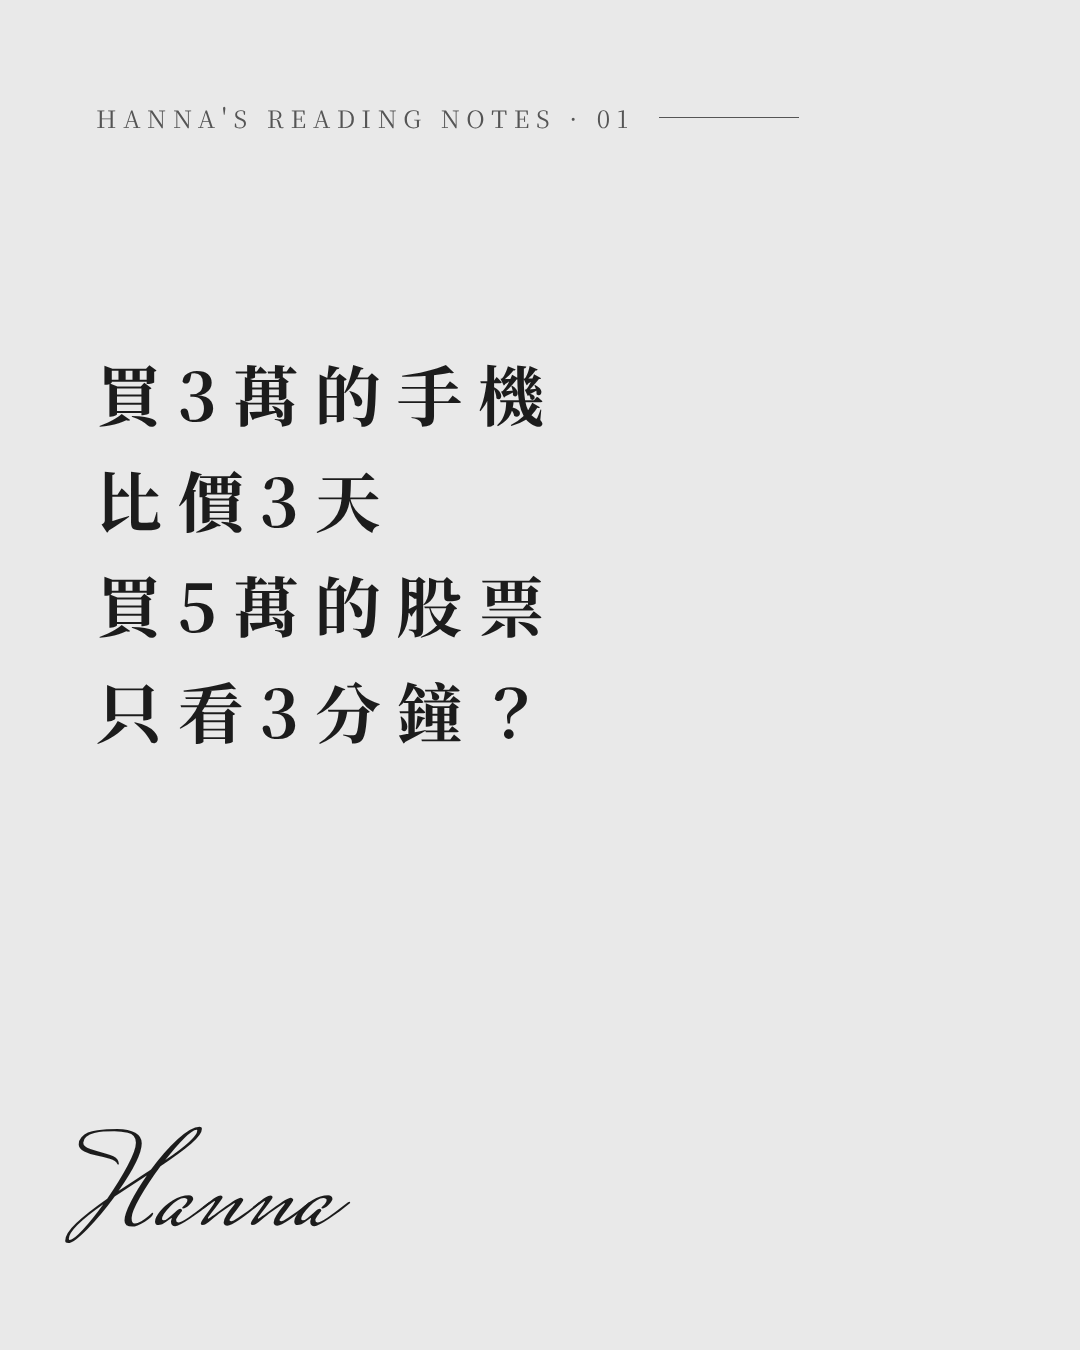
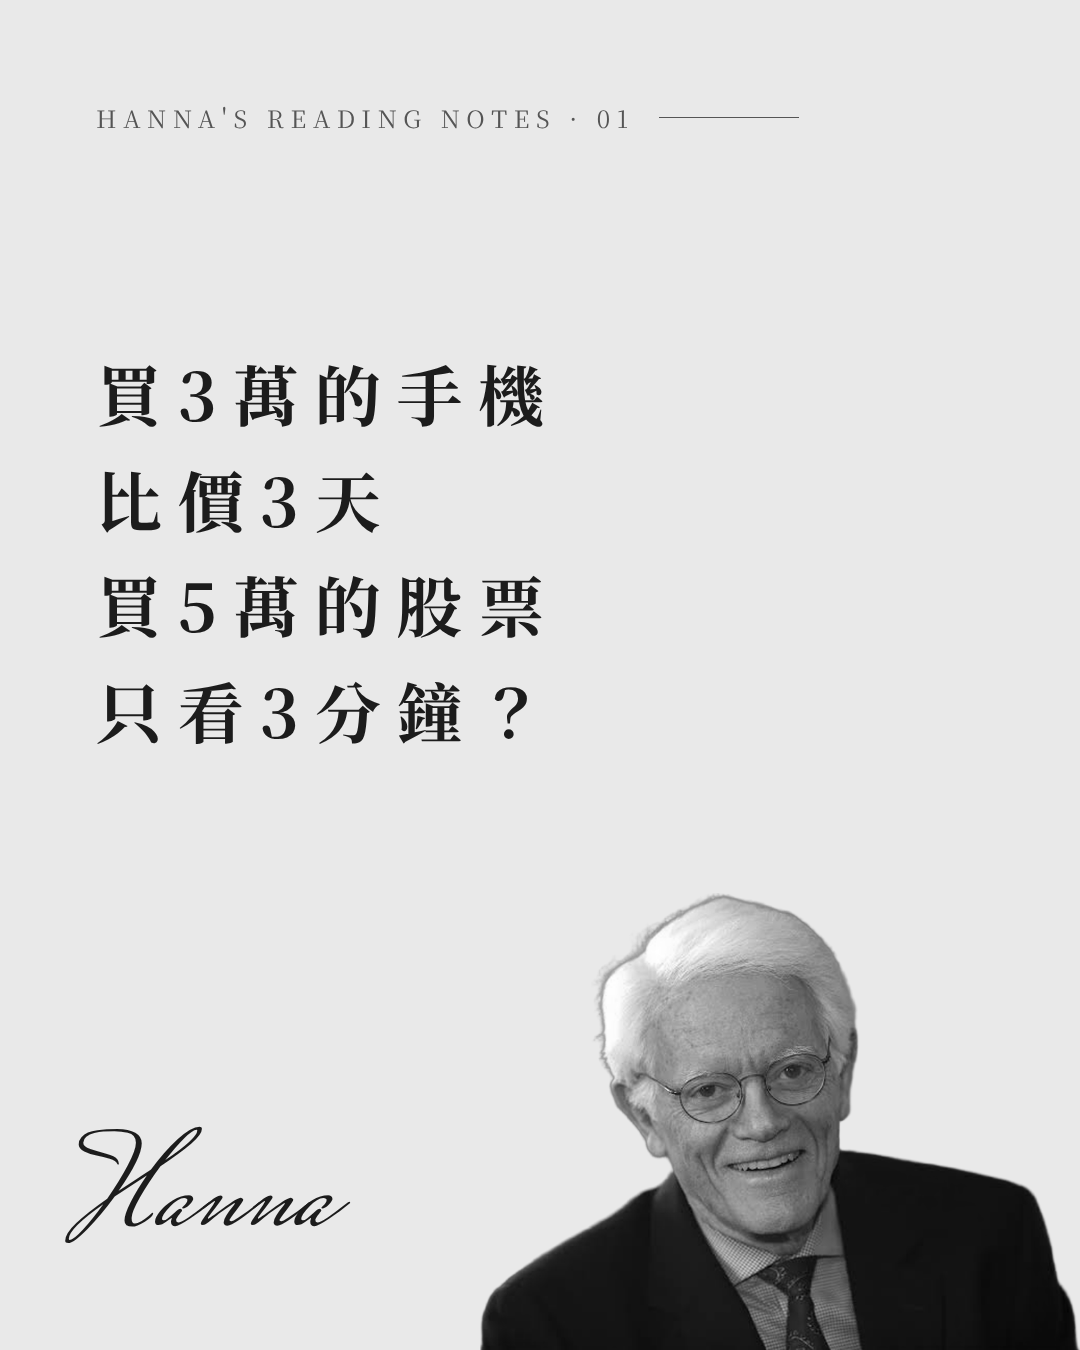
下單前3分鐘輪播：封面加入 Peter Lynch 去背照
Claude-Session: https://claude.ai/code/session_01AFjNkU8XspDCm6xvkskaQj

Changed region(s): [[0.4278, 0.6533, 1.0, 1.0]]

diff --git a/IP經營/輪播_下單前3分鐘/slides.html b/IP經營/輪播_下單前3分鐘/slides.html
@@ -20,7 +20,7 @@
   }
   .series::after { content: ""; width: 140px; height: 1px; background: var(--soft); }
   .person {
-    position: absolute; right: 0; bottom: 0; width: 430px; height: 520px;
+    position: absolute; right: 0; bottom: 0; width: 600px; height: 457px;
     background: url(person.png) center top / cover no-repeat;
   }
   .who { position: absolute; left: 96px; bottom: 330px; }

diff --git a/IP經營/輪播貼文_下單前3分鐘.md b/IP經營/輪播貼文_下單前3分鐘.md
@@ -2,7 +2,7 @@
 
 圖檔：`IP經營/輪播_下單前3分鐘/01.png`～`08.png`（8 張，依分析報告改版：故事＋小抄、每頁都有標題）
 人物：Peter Lynch（封面不顯示姓名，第 3 張揭曉）
-封面人物照：待使用者提供，收到後放成 `IP經營/輪播_下單前3分鐘/person.png` 並重新算圖
+封面人物照：使用者提供的第三張（微笑正面照），已去背（birefnet-portrait）
 
 ## 貼文說明文字（Caption）
 
